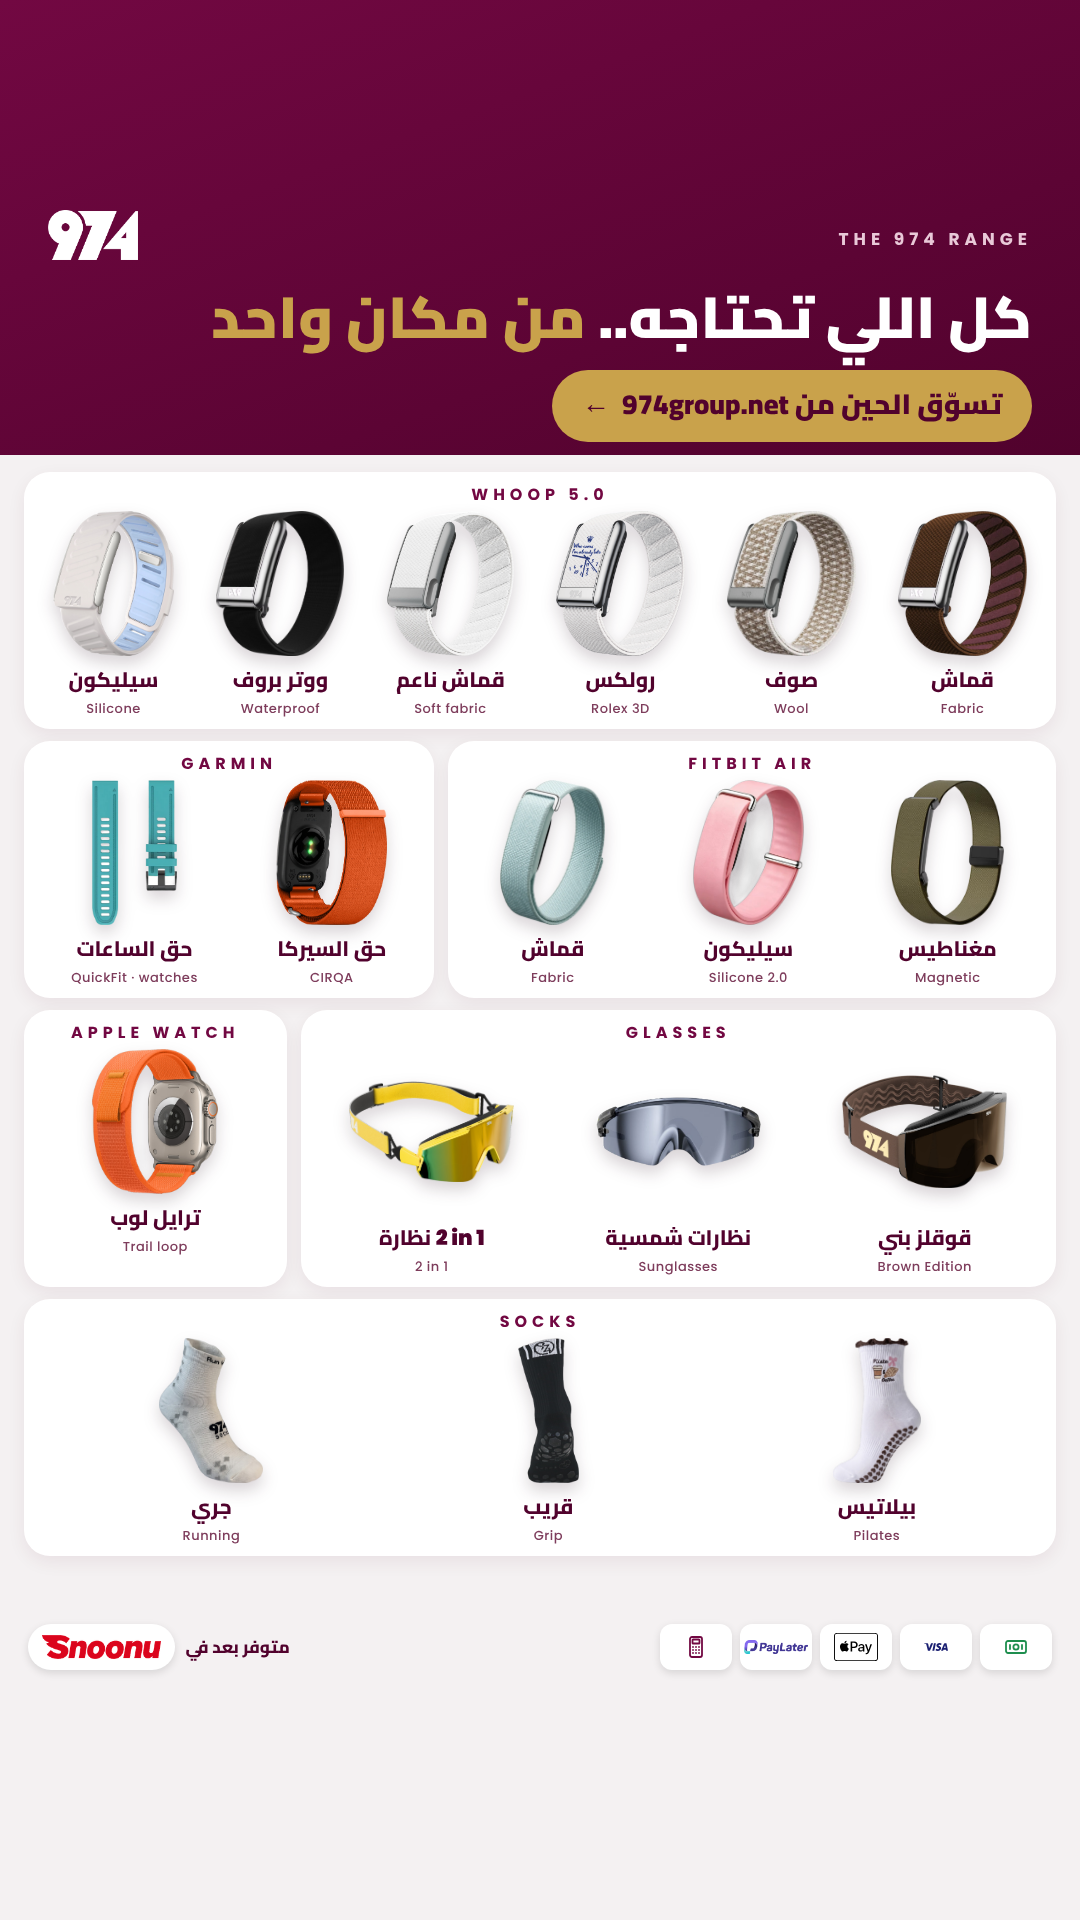
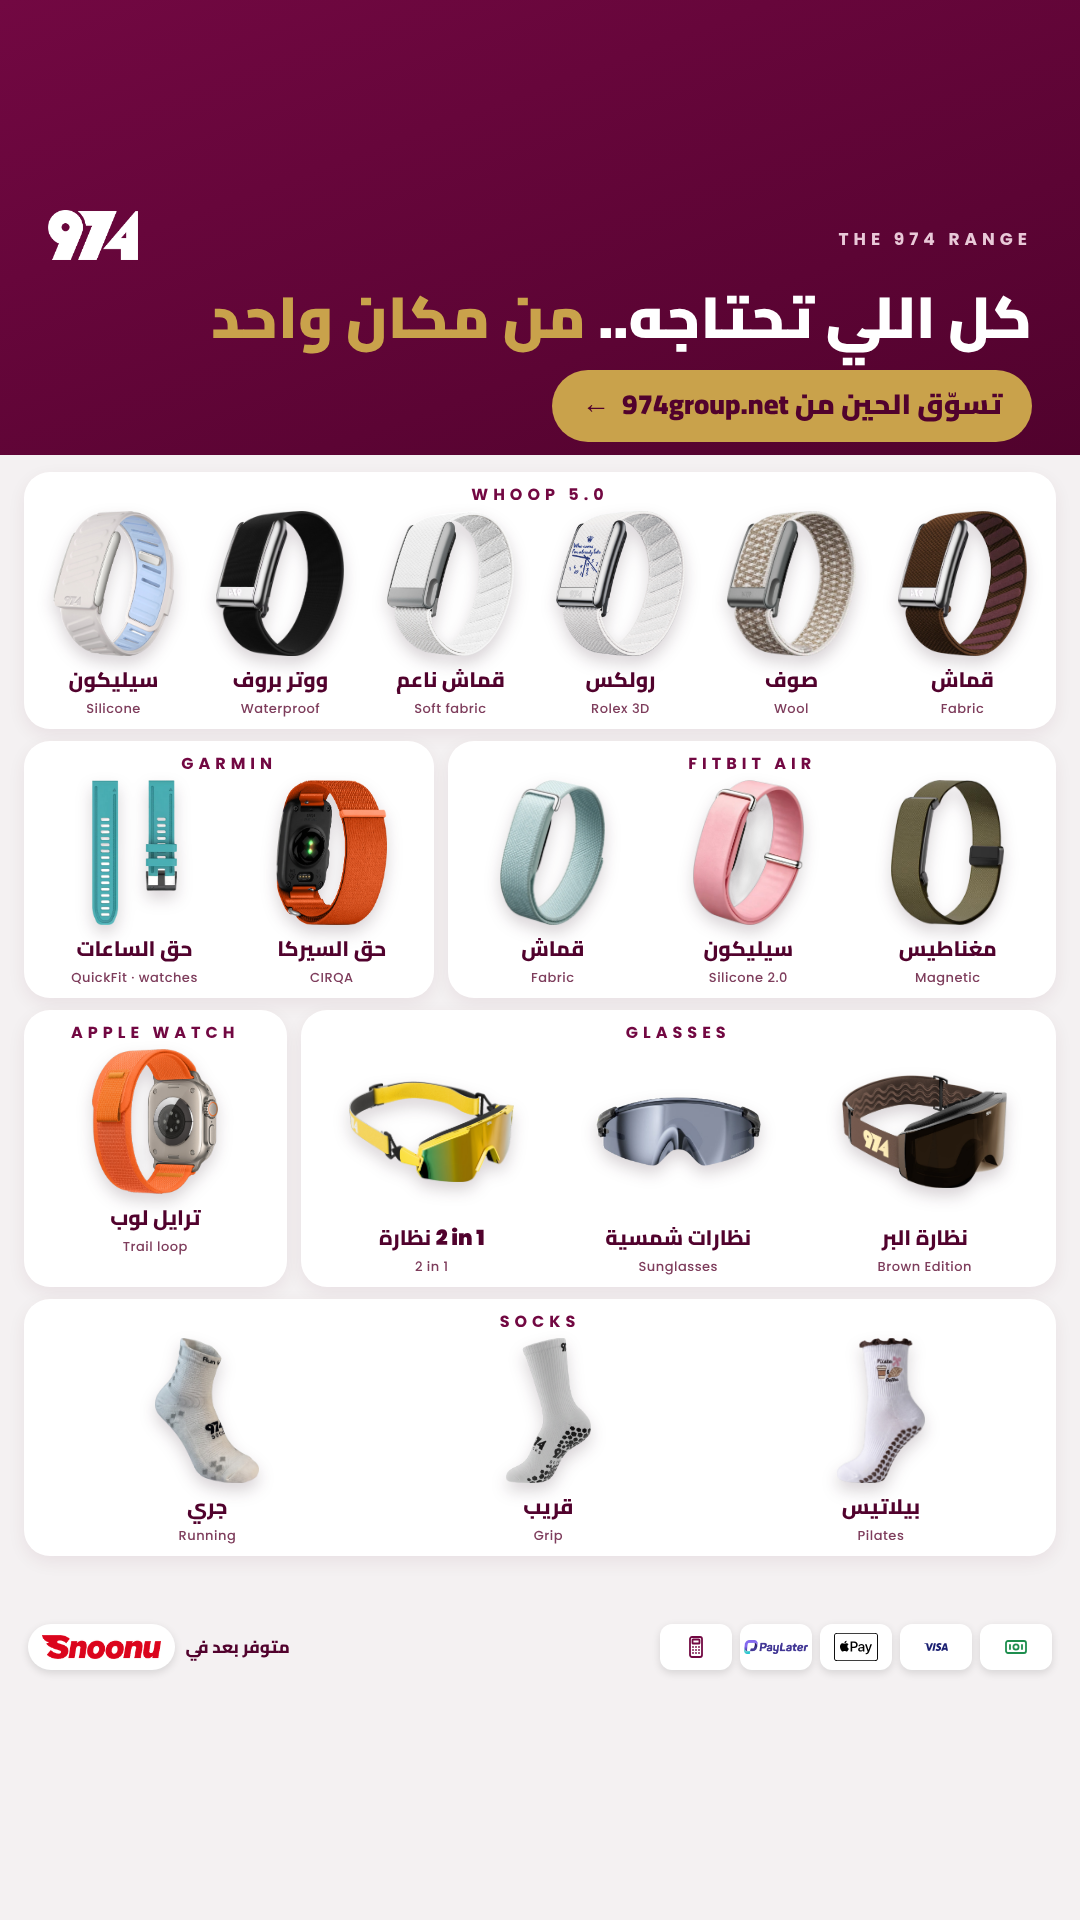
Full range: brown goggles label, white grip sock
Claude-Session: https://claude.ai/code/session_01K6HDWNrArsGSJekW1VcEzV

diff --git a/posts/2026-11/full-range/out/974-full-range-story.html b/posts/2026-11/full-range/out/974-full-range-story.html
@@ -46,8 +46,8 @@ body{--o:0px}</style></head><body>
 <div class="abs" style="left:24px;right:24px;top:472px;display:flex;flex-direction:column;gap:12px">
   <div class="sec" style="flex:1"><div class="lb en">WHOOP 5.0</div><div class="row"><div class="c"><div class="im" style="height:145px"><img src="file:///home/claude/974-social/posts/2026-11/full-range/cut/w-sil.png" style="height:145px"></div><b>سيليكون</b><i class="en">Silicone</i></div><div class="c"><div class="im" style="height:145px"><img src="file:///home/claude/974-social/posts/2026-11/full-range/cut/w-wp-L.png" style="height:145px"></div><b>ووتر بروف</b><i class="en">Waterproof</i></div><div class="c"><div class="im" style="height:145px"><img src="file:///home/claude/974-social/posts/2026-11/full-range/cut/w-soft-L.png" style="height:145px"></div><b>قماش ناعم</b><i class="en">Soft fabric</i></div><div class="c"><div class="im" style="height:145px"><img src="file:///home/claude/974-social/posts/2026-11/full-range/cut/w-rolex.png" style="height:145px"></div><b>رولكس</b><i class="en">Rolex 3D</i></div><div class="c"><div class="im" style="height:145px"><img src="file:///home/claude/974-social/posts/2026-11/full-range/cut/w-wool-L.png" style="height:145px"></div><b>صوف</b><i class="en">Wool</i></div><div class="c"><div class="im" style="height:145px"><img src="file:///home/claude/974-social/posts/2026-11/full-range/cut/w-fab-L.png" style="height:145px"></div><b>قماش</b><i class="en">Fabric</i></div></div></div>
   <div style="display:flex;gap:14px"><div class="sec" style="flex:2"><div class="lb en">GARMIN</div><div class="row"><div class="c"><div class="im" style="height:145px"><img src="file:///home/claude/974-social/posts/2026-11/full-range/cut/g-20.png" style="height:145px"></div><b>حق الساعات</b><i class="en">QuickFit · watches</i></div><div class="c"><div class="im" style="height:145px"><img src="file:///home/claude/974-social/posts/2026-11/full-range/cut/g-fab3.png" style="height:145px"></div><b>حق السيركا</b><i class="en">CIRQA</i></div></div></div><div class="sec" style="flex:3"><div class="lb en">FITBIT AIR</div><div class="row"><div class="c"><div class="im" style="height:145px"><img src="file:///home/claude/974-social/posts/2026-11/full-range/cut/f-fab.png" style="height:145px"></div><b>قماش</b><i class="en">Fabric</i></div><div class="c"><div class="im" style="height:145px"><img src="file:///home/claude/974-social/posts/2026-11/full-range/cut/f-sil2.png" style="height:145px"></div><b>سيليكون</b><i class="en">Silicone 2.0</i></div><div class="c"><div class="im" style="height:145px"><img src="file:///home/claude/974-social/posts/2026-11/full-range/cut/f-mag.png" style="height:145px"></div><b>مغناطيس</b><i class="en">Magnetic</i></div></div></div></div>
-  <div style="display:flex;gap:14px"><div class="sec" style="flex:1"><div class="lb en">APPLE WATCH</div><div class="row"><div class="c"><div class="im" style="height:145px"><img src="file:///home/claude/974-social/posts/2026-11/full-range/cut/a-trail.png" style="height:145px"></div><b>ترايل لوب</b><i class="en">Trail loop</i></div></div></div><div class="sec" style="flex:3"><div class="lb en">GLASSES</div><div class="row"><div class="c"><div class="im" style="height:165px"><img src="file:///home/claude/974-social/posts/2026-11/full-range/cut/goggle.png" style="width:165px"></div><b>نظارة <span class="en">2 in 1</span></b><i class="en">2 in 1</i></div><div class="c"><div class="im" style="height:165px"><img src="file:///home/claude/974-social/posts/2026-11/full-range/cut/sun.png" style="width:165px"></div><b>نظارات شمسية</b><i class="en">Sunglasses</i></div><div class="c"><div class="im" style="height:165px"><img src="file:///home/claude/974-social/posts/2026-11/full-range/cut/g-brown.png" style="width:165px"></div><b>قوقلز بني</b><i class="en">Brown Edition</i></div></div></div></div>
-  <div class="sec" style="flex:1"><div class="lb en">SOCKS</div><div class="row"><div class="c"><div class="im" style="height:145px"><img src="file:///home/claude/974-social/posts/2026-11/full-range/cut/s-run.png" style="height:145px"></div><b>جري</b><i class="en">Running</i></div><div class="c"><div class="im" style="height:145px"><img src="file:///home/claude/974-social/posts/2026-11/full-range/cut/sock.png" style="height:145px"></div><b>قريب</b><i class="en">Grip</i></div><div class="c"><div class="im" style="height:145px"><img src="file:///home/claude/974-social/posts/2026-11/full-range/cut/s-pil.png" style="height:145px"></div><b>بيلاتيس</b><i class="en">Pilates</i></div></div></div>
+  <div style="display:flex;gap:14px"><div class="sec" style="flex:1"><div class="lb en">APPLE WATCH</div><div class="row"><div class="c"><div class="im" style="height:145px"><img src="file:///home/claude/974-social/posts/2026-11/full-range/cut/a-trail.png" style="height:145px"></div><b>ترايل لوب</b><i class="en">Trail loop</i></div></div></div><div class="sec" style="flex:3"><div class="lb en">GLASSES</div><div class="row"><div class="c"><div class="im" style="height:165px"><img src="file:///home/claude/974-social/posts/2026-11/full-range/cut/goggle.png" style="width:165px"></div><b>نظارة <span class="en">2 in 1</span></b><i class="en">2 in 1</i></div><div class="c"><div class="im" style="height:165px"><img src="file:///home/claude/974-social/posts/2026-11/full-range/cut/sun.png" style="width:165px"></div><b>نظارات شمسية</b><i class="en">Sunglasses</i></div><div class="c"><div class="im" style="height:165px"><img src="file:///home/claude/974-social/posts/2026-11/full-range/cut/g-brown.png" style="width:165px"></div><b>نظارة البر</b><i class="en">Brown Edition</i></div></div></div></div>
+  <div class="sec" style="flex:1"><div class="lb en">SOCKS</div><div class="row"><div class="c"><div class="im" style="height:145px"><img src="file:///home/claude/974-social/posts/2026-11/full-range/cut/s-run.png" style="height:145px"></div><b>جري</b><i class="en">Running</i></div><div class="c"><div class="im" style="height:145px"><img src="file:///home/claude/974-social/posts/2026-11/full-range/cut/sock-white.png" style="height:145px"></div><b>قريب</b><i class="en">Grip</i></div><div class="c"><div class="im" style="height:145px"><img src="file:///home/claude/974-social/posts/2026-11/full-range/cut/s-pil.png" style="height:145px"></div><b>بيلاتيس</b><i class="en">Pilates</i></div></div></div>
 </div>
 <div class="abs" style="right:48px;top:370px"><div class="cta" style="background:#C9A24B;color:#51022D">تسوّق الحين من 974group.net <span style="font-family:Poppins">←</span></div></div></div><div class="pf"><div class="payfoot"><div class="pills">
 <div class="ch"><div class="lg"><svg viewBox="0 0 24 24" style="height:54px" fill="none" stroke="#1E8E4E" stroke-width="1.8" stroke-linecap="round" stroke-linejoin="round"><rect x="2" y="6" width="20" height="12" rx="2"/><circle cx="12" cy="12" r="2.6"/><path d="M6 10v4M18 10v4"/></svg></div><i>كاش</i></div>

diff --git a/posts/2026-11/full-range/gen.py b/posts/2026-11/full-range/gen.py
@@ -9,8 +9,8 @@ WHOOP=[('w-sil','Silicone','سيليكون'),('w-wp-L','Waterproof','ووتر ب
 GARMIN=[('g-20','QuickFit · watches','حق الساعات'),('g-fab3','CIRQA','حق السيركا')]
 FITBIT=[('f-fab','Fabric','قماش'),('f-sil2','Silicone 2.0','سيليكون'),('f-mag','Magnetic','مغناطيس')]
 APPLE=[('a-trail','Trail loop','ترايل لوب')]
-GLASS=[('goggle','2 in 1','نظارة 2 in 1'),('sun','Sunglasses','نظارات شمسية'),('g-brown','Brown Edition','قوقلز بني')]
-SOCKS=[('s-run','Running','جري'),('sock','Grip','قريب'),('s-pil','Pilates','بيلاتيس')]
+GLASS=[('goggle','2 in 1','نظارة 2 in 1'),('sun','Sunglasses','نظارات شمسية'),('g-brown','Brown Edition','نظارة البر')]
+SOCKS=[('s-run','Running','جري'),('sock-white','Grip','قريب'),('s-pil','Pilates','بيلاتيس')]
 
 def lab(ar): return ar.replace('2 in 1','<span class="en">2 in 1</span>')
 def cells(items,h,mode='h'):
